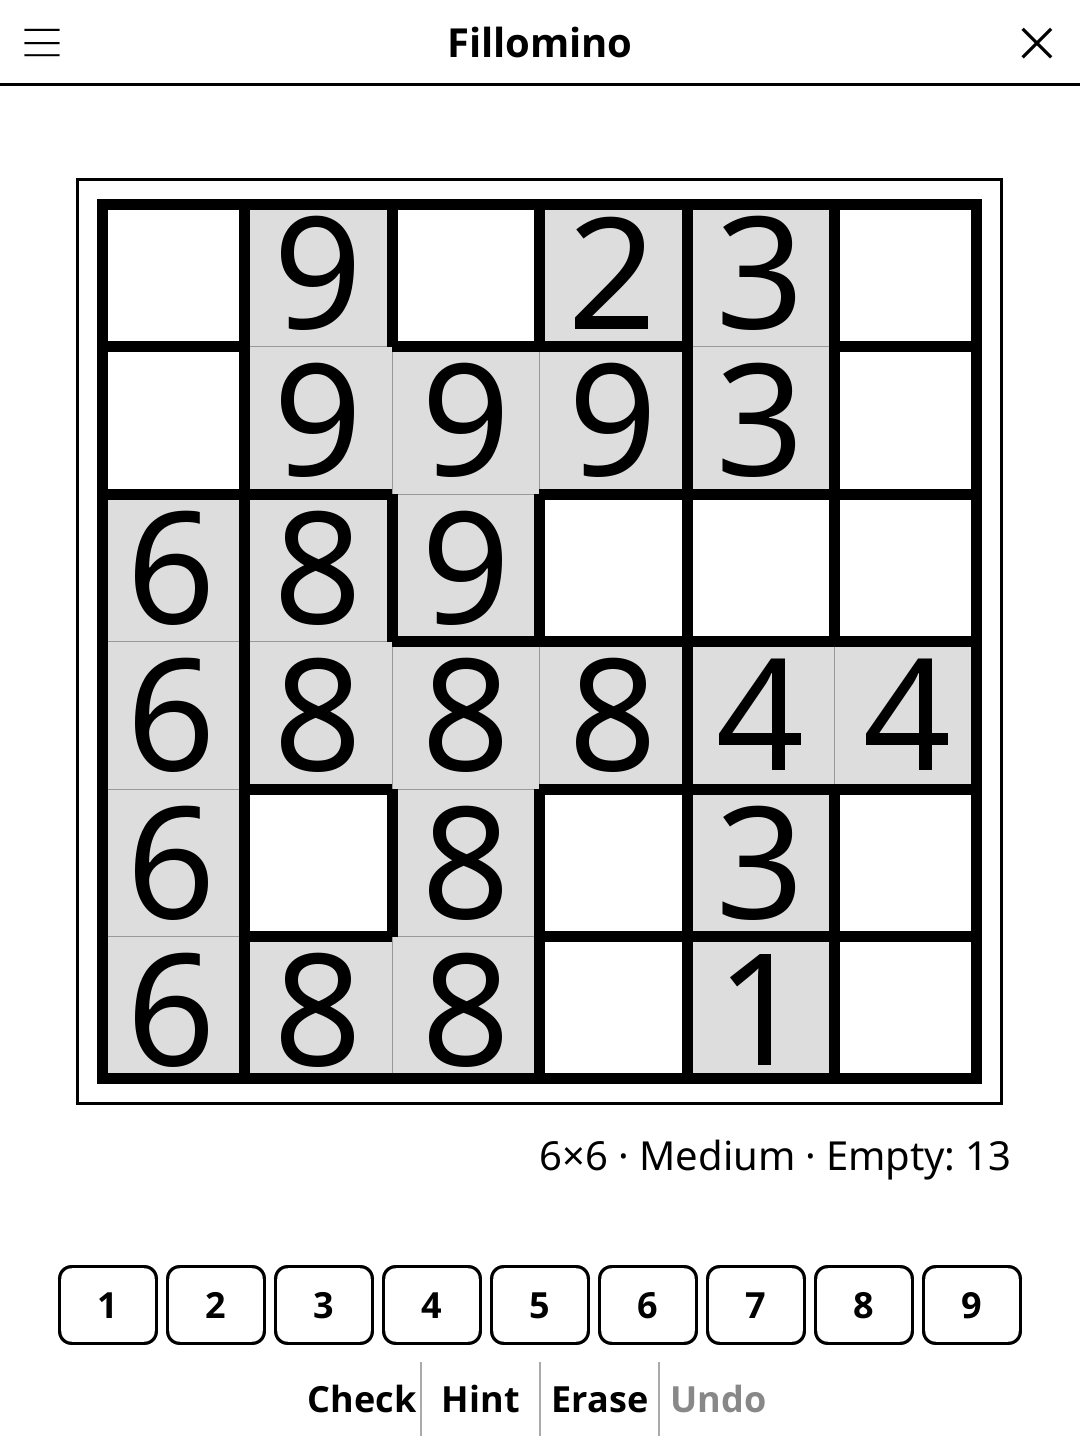
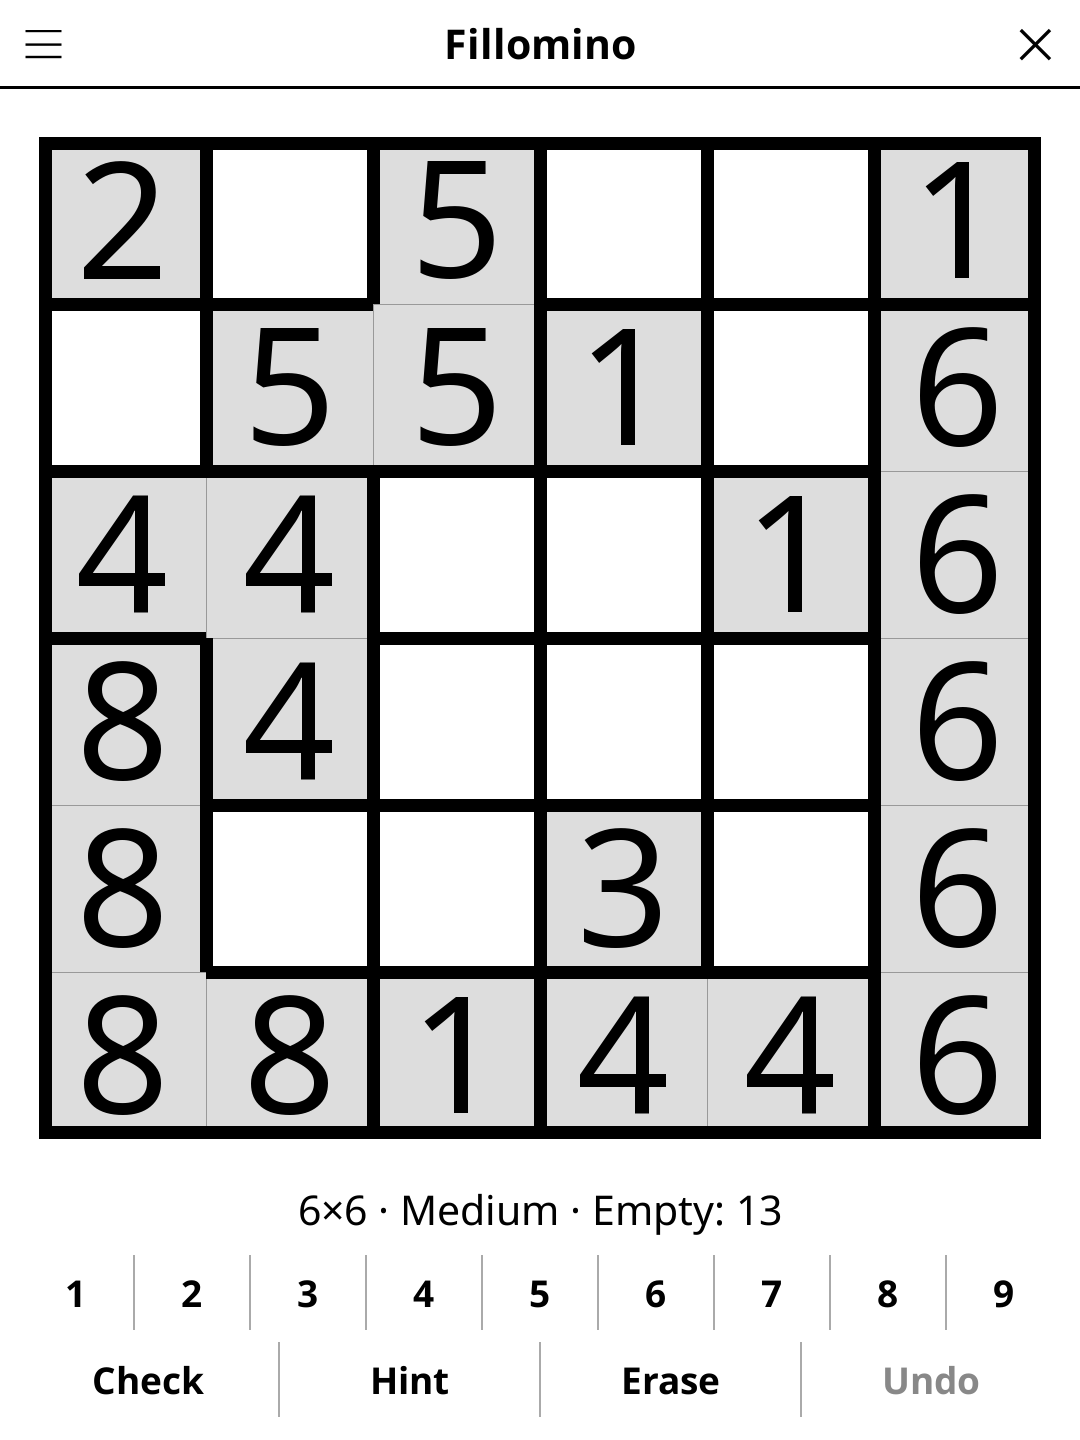
release: 1.3.0 -- redesigned screen, harmonised menu, New game at round end
Screen redesign (full-width action bar, unified pad, status line, larger
board), harmonised title-bar menu, and a "New game" button once the round
is over. See CHANGELOG.md.

diff --git a/CHANGELOG.md b/CHANGELOG.md
@@ -2,6 +2,27 @@
 
 All notable changes to this project will be documented in this file.
 
+## [1.3.0] - 2026-10-30
+
+### Changed
+- Redesigned play screen: the digits 1-9 form one even row of keys above a
+  full-width Check/Hint/Erase/Undo bar, and the board fills the room they
+  leave, with one edge around it.
+- The status line reads "6×6 · Medium · Empty: 20" and wraps in landscape
+  instead of being cut off.
+- Title-bar menu: "Size: 6×6" and "Difficulty: Medium" instead of "Grid: 6×6"
+  and "Diff: Medium".
+- Once the puzzle is solved, the action bar shows "New game" in place of its
+  buttons.
+
+### Fixed
+- Tapping Undo crashed ("attempt to call method 'undo'"): the board's undo
+  stack field shadowed its `undo()` method.
+- Digits overflowed their cells: game-common's font fit accepted every size,
+  then DPI scaled it up again. They now fit their cell on every screen.
+- An applied Hint no longer wipes the saved game (game-common saved it as
+  nil). When a hint fills the last cell, the status now shows the win message.
+
 ## [1.2.2] - 2026-10-07
 
 ### Fixed

diff --git a/README.md b/README.md
@@ -33,7 +33,7 @@ Fill every cell so that each group of orthogonally connected cells sharing the s
 | Enter a number | Tap the digit button |
 | Erase a cell | Tap **Erase** |
 | Check progress | Tap **Check** |
-| New puzzle | Tap **New** |
+| New puzzle | Tap **New game** |
 | Show rules | Tap **Rules** |
 
 ## License
